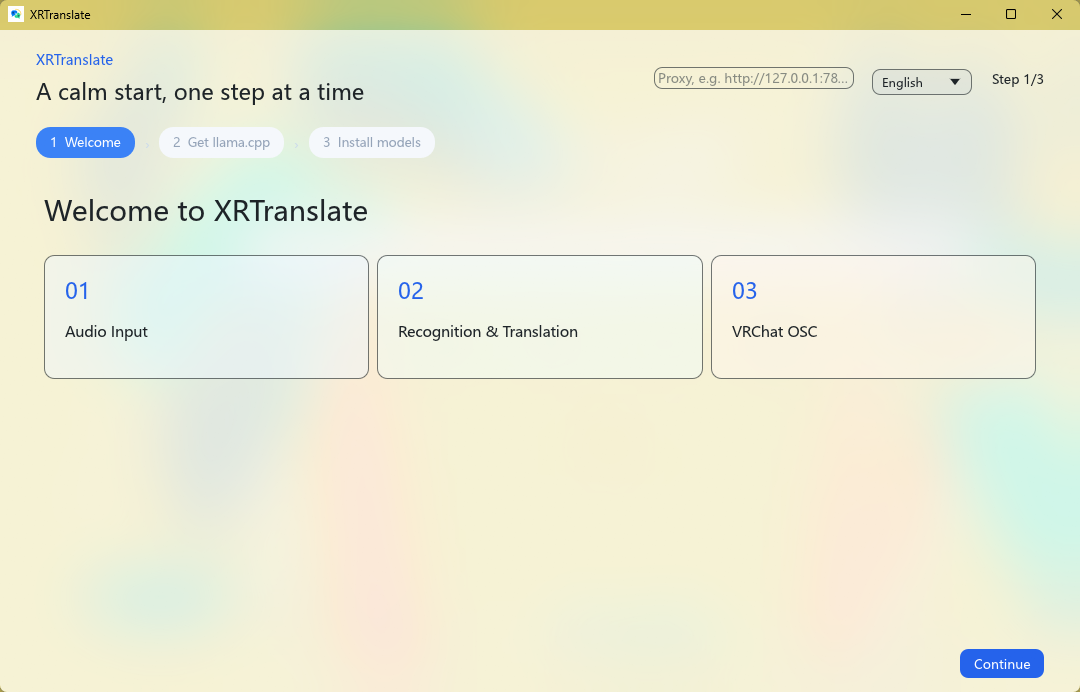
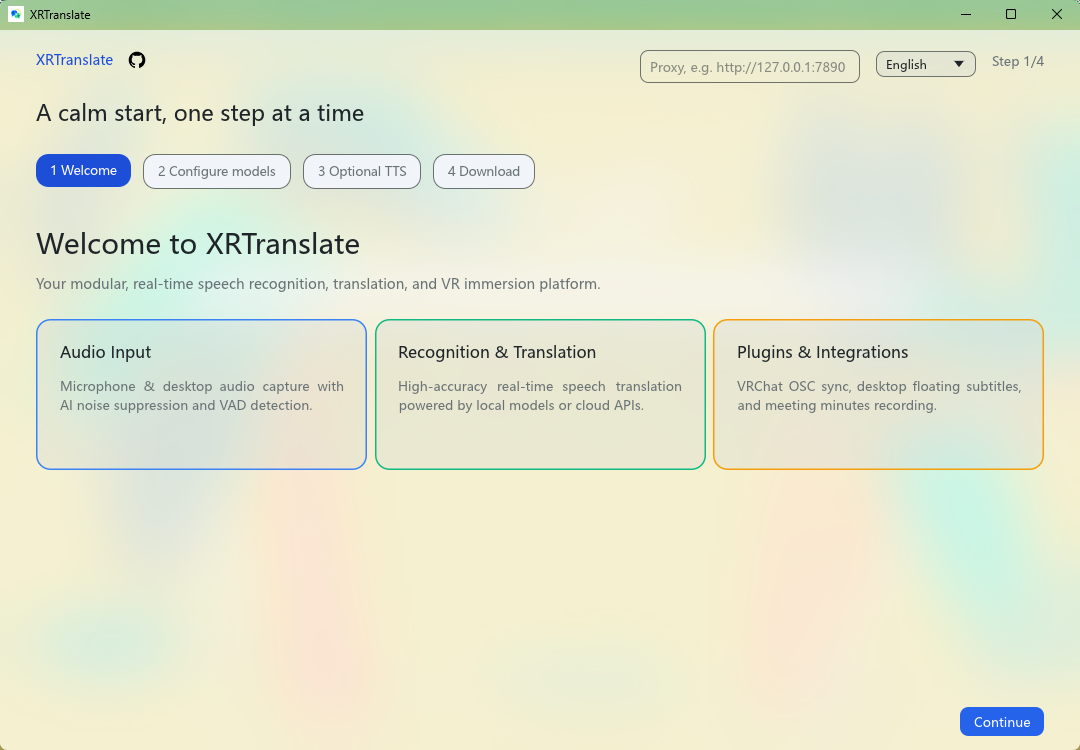
fix: harden native runtime startup
Stop the onboarding renderer from persisting llama-server.exe as model_manager.runtime_directory. Route the installed executable through host coordination and keep runtime task rendering presentation-only.

Normalize legacy managed executable values back to their runtime root so existing installations resolve the packaged ONNX CPU core from runtime/onnxruntime/cpu without requiring a reset or reinstall.

Keep the native backend alive when Ctrl+C listener setup is unavailable, update XR-Corpus to the matching shutdown-signal fix, and add regression coverage for legacy runtime paths and installer completion handoff.

diff --git a/crates/xrtranslate-config/src/lib.rs b/crates/xrtranslate-config/src/lib.rs
@@ -107,7 +107,7 @@ impl RuntimeLayout {
         let project_root = project_root.as_ref().to_path_buf();
         let runtime_root = match runtime_directory {
             Some(dir) => {
-                let dir = dir.as_ref();
+                let dir = normalized_runtime_root(dir.as_ref());
                 if dir.is_absolute() {
                     dir.to_path_buf()
                 } else {
@@ -250,6 +250,24 @@ impl RuntimeLayout {
             .unwrap_or_else(|| project_root.as_ref().join("runtime"))
             .join("XRTranslate")
             .join("user-config.json")
+    }
+}
+
+/// Older welcome builds accidentally persisted the managed llama-server
+/// executable as `runtime_directory`. Keep those user configs usable without
+/// treating the executable as a directory or requiring a manual reset.
+fn normalized_runtime_root(path: &Path) -> &Path {
+    let is_llama_server = path.file_stem().is_some_and(|name| name == "llama-server")
+        && path
+            .extension()
+            .is_none_or(|extension| extension.eq_ignore_ascii_case("exe"));
+    let managed_directory = path
+        .parent()
+        .filter(|parent| parent.file_name().is_some_and(|name| name == "llama.cpp"));
+    if is_llama_server && let Some(runtime_root) = managed_directory.and_then(Path::parent) {
+        runtime_root
+    } else {
+        path
     }
 }
 
@@ -1496,6 +1514,28 @@ mod tests {
         assert_eq!(
             layout.config_path_for(&configured),
             PathBuf::from("runtime/llama.cpp/llama-server")
+        );
+    }
+
+    #[test]
+    fn runtime_layout_recovers_executable_persisted_as_runtime_directory() {
+        let root = PathBuf::from("/tmp/xrtranslate-release");
+        let relative = RuntimeLayout::new(&root, Some("runtime/llama.cpp/llama-server.exe"));
+        assert_eq!(relative.runtime_root(), root.join("runtime"));
+        assert_eq!(
+            relative.onnx_cpu_core_library(),
+            root.join("runtime/onnxruntime/cpu/onnxruntime.dll")
+        );
+
+        let custom_root = std::env::temp_dir().join("xrtranslate-custom-runtime");
+        let absolute =
+            RuntimeLayout::new(&root, Some(custom_root.join("llama.cpp/llama-server.exe")));
+        assert_eq!(absolute.runtime_root(), custom_root);
+
+        let unrelated = RuntimeLayout::new(&root, Some("custom/llama-server.exe"));
+        assert_eq!(
+            unrelated.runtime_root(),
+            root.join("custom/llama-server.exe")
         );
     }
 

diff --git a/rust-client/src/runtime_install.rs b/rust-client/src/runtime_install.rs
@@ -97,7 +97,7 @@ pub enum RuntimeInstallState {
         total: u64,
     },
     Extracting,
-    Installed(PathBuf),
+    Installed,
     Failed(String),
 }
 
@@ -409,12 +409,13 @@ impl RuntimeInstaller {
         Ok(())
     }
 
-    pub fn poll(&mut self) {
+    pub fn poll(&mut self) -> Option<PathBuf> {
         let Some(events) = &self.events else {
-            return;
+            return None;
         };
         let mut finished = false;
         let mut cancelled = false;
+        let mut installed_executable = None;
         loop {
             match events.try_recv() {
                 Ok(Event::Prepared(result)) => {
@@ -453,7 +454,10 @@ impl RuntimeInstaller {
                         selection.download_bytes = 0;
                     }
                     self.state = match result {
-                        Ok(path) => RuntimeInstallState::Installed(path),
+                        Ok(path) => {
+                            installed_executable = Some(path);
+                            RuntimeInstallState::Installed
+                        }
                         Err(error) => RuntimeInstallState::Failed(error),
                     };
                     finished = true;
@@ -482,6 +486,7 @@ impl RuntimeInstaller {
                 }
             }
         }
+        installed_executable
     }
 }
 
@@ -2371,6 +2376,23 @@ fn directory_contains_file_prefix(directory: &Path, prefix: &str) -> Result<bool
 #[cfg(test)]
 mod tests {
     use super::*;
+
+    #[test]
+    fn poll_returns_the_installed_executable_to_host_coordination() {
+        let executable = PathBuf::from("runtime/llama.cpp/llama-server.exe");
+        let (sender, receiver) = unbounded();
+        sender
+            .send(Event::Finished(Ok(executable.clone())))
+            .unwrap();
+        let mut installer = RuntimeInstaller {
+            events: Some(receiver),
+            ..RuntimeInstaller::default()
+        };
+
+        assert_eq!(installer.poll(), Some(executable));
+        assert!(matches!(installer.state(), RuntimeInstallState::Installed));
+        assert!(installer.events.is_none());
+    }
 
     fn asset(name: &str) -> ReleaseAsset {
         let is_cuda_runtime = name.contains("cudart");

diff --git a/rust-client/src/ui/components.rs b/rust-client/src/ui/components.rs
@@ -1696,11 +1696,11 @@ pub fn render_runtime_task_state(
     state: &crate::runtime_install::RuntimeInstallState,
     extracting_text: &'static str,
     installed_text: &'static str,
-) -> Option<std::path::PathBuf> {
+) {
     use crate::runtime_install::RuntimeInstallState;
 
     match state {
-        RuntimeInstallState::Idle | RuntimeInstallState::Ready => None,
+        RuntimeInstallState::Idle | RuntimeInstallState::Ready => {}
         RuntimeInstallState::Detecting => {
             ui.add_space(6.0);
             ui.label(
@@ -1711,7 +1711,6 @@ pub fn render_runtime_task_state(
                 .size(12.0)
                 .color(theme::text_weak()),
             );
-            None
         }
         RuntimeInstallState::Downloading {
             asset,
@@ -1736,7 +1735,6 @@ pub fn render_runtime_task_state(
                     )),
                 );
             }
-            None
         }
         RuntimeInstallState::Extracting => {
             ui.add_space(6.0);
@@ -1745,16 +1743,14 @@ pub fn render_runtime_task_state(
                     .size(12.0)
                     .color(theme::text_weak()),
             );
-            None
         }
-        RuntimeInstallState::Installed(path) => {
+        RuntimeInstallState::Installed => {
             ui.add_space(6.0);
             ui.label(
                 egui::RichText::new(crate::i18n::tr(language, installed_text))
                     .size(12.0)
                     .color(Color32::from_rgb(5, 150, 105)),
             );
-            Some(path.clone())
         }
         RuntimeInstallState::Failed(error) => {
             ui.add_space(6.0);
@@ -1763,7 +1759,6 @@ pub fn render_runtime_task_state(
                     .size(12.0)
                     .color(Color32::from_rgb(220, 38, 38)),
             );
-            None
         }
     }
 }

diff --git a/rust-client/src/ui/pages/onboarding.rs b/rust-client/src/ui/pages/onboarding.rs
@@ -1186,18 +1186,13 @@ fn render_runtime_installation_section(
 
             components::render_runtime_fallback_notice(ui, language, &app.runtime_installer);
 
-            if let Some(path) = components::render_runtime_task_state(
+            components::render_runtime_task_state(
                 ui,
                 language,
                 &state,
                 "Extracting native runtime...",
                 "The native runtime is installed and ready.",
-            ) {
-                app.backend_manager.runtime_directory = path.to_string_lossy().to_string();
-                if let Err(error) = app.backend_manager.save_runtime_directory() {
-                    app.last_error = Some(error);
-                }
-            }
+            );
         });
 
     ui.add_space(12.0);

diff --git a/rust-client/src/main.rs b/rust-client/src/main.rs
@@ -2736,7 +2736,9 @@ impl XRTranslateApp {
 impl eframe::App for XRTranslateApp {
     fn ui(&mut self, ui: &mut egui::Ui, _frame: &mut eframe::Frame) {
         self.model_task_manager.poll();
-        self.runtime_installer.poll();
+        if let Some(path) = self.runtime_installer.poll() {
+            self.backend_manager.use_installed_llama_server(&path);
+        }
         let runtime_requirements = self.service_config.runtime_requirements();
         if !self.runtime_installer.is_busy()
             && !self.runtime_installer.plan_matches(runtime_requirements)

diff --git a/rust-client/src/backend.rs b/rust-client/src/backend.rs
@@ -137,6 +137,10 @@ impl BackendManager {
         !value.is_empty() && configured_llama_server_path(&self.runtime_layout(), value).is_file()
     }
 
+    pub(crate) fn use_installed_llama_server(&mut self, path: &std::path::Path) {
+        self.llama_server_path = path.display().to_string();
+    }
+
     pub fn save_runtime_directory(&mut self) -> Result<(), String> {
         let requested = self.runtime_directory.trim();
         let value = if requested.is_empty() {

diff --git a/apps/xrtranslate-backend/src/main.rs b/apps/xrtranslate-backend/src/main.rs
@@ -2972,8 +2972,13 @@ fn outbound_is_current(
 }
 
 async fn shutdown_signal() {
-    let _ = tokio::signal::ctrl_c().await;
-    info!("shutdown signal received");
+    match tokio::signal::ctrl_c().await {
+        Ok(()) => info!("shutdown signal received"),
+        Err(error) => {
+            warn!(%error, "Ctrl+C listener is unavailable; keeping backend running");
+            std::future::pending::<()>().await;
+        }
+    }
 }
 
 #[cfg(test)]
